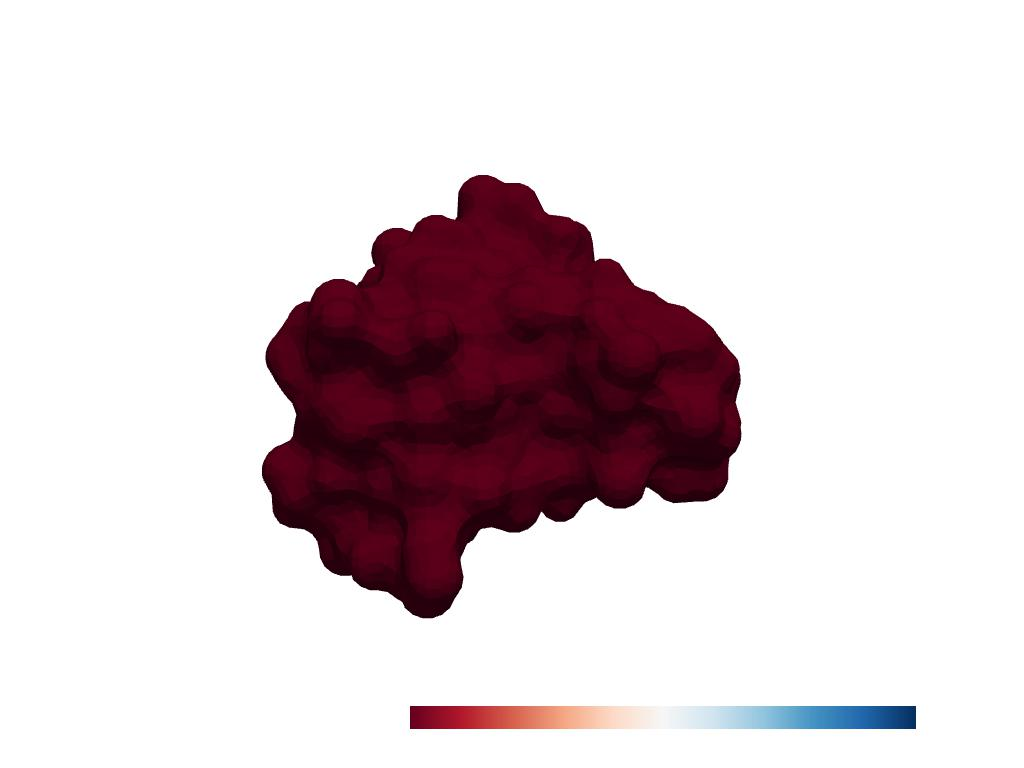
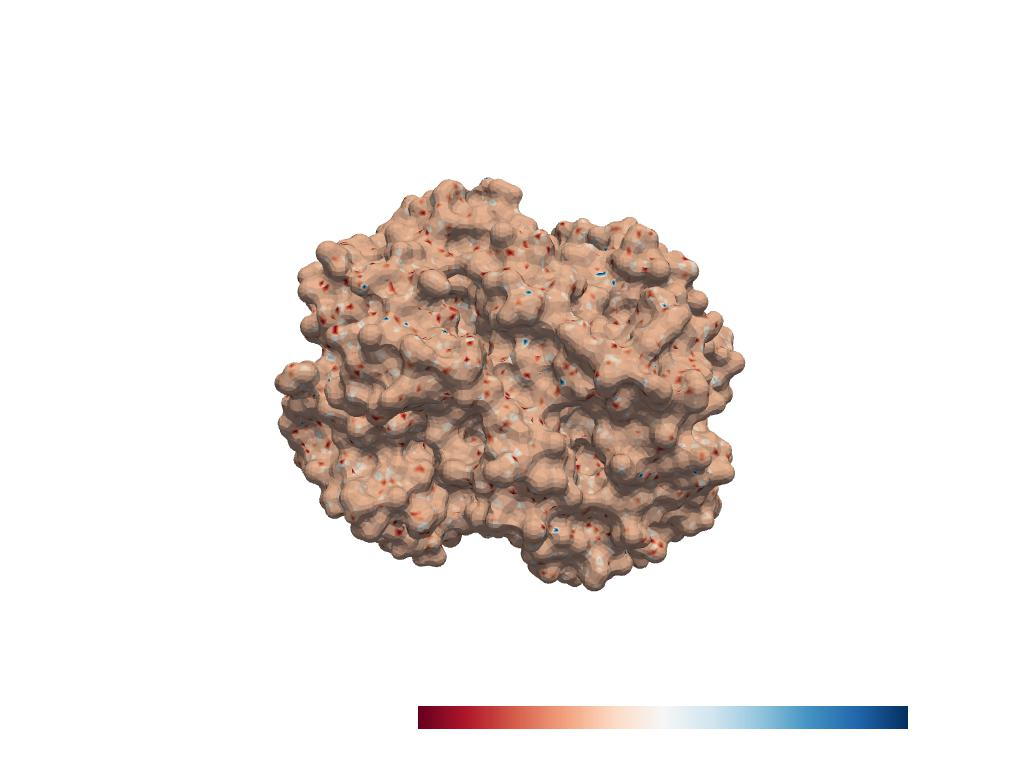
Trying native mesh stuff

Changed region(s): [[0.25, 0.2188, 0.75, 0.8125], [0.875, 0.9062, 0.9062, 0.9688], [0.375, 0.9062, 0.4062, 0.9375]]

diff --git a/provis/src/surface_handler.py b/provis/src/surface_handler.py
@@ -10,7 +10,7 @@ import pyvista as pv
 from pyvtk import PolyData, PointData, CellData, Scalars, Vectors, VtkData
 from provis.utils.surface_utils import get_surface, compute_normal, prepare_trimesh
 from provis.src.surface_feat import compute_surface_features
-import trimesh
+from trimesh import util
 from subprocess import PIPE, Popen
 import open3d as o3d
 
@@ -38,71 +38,6 @@ class SurfaceHandler:
             self._density = dens
         self._features = None
         self._mesh = None
-
-
-    def save_vtk(self, fname, xyz, triangles=None, values=None, vectors=None,
-                triangle_values=None):
-        """
-        Saves a point cloud or triangle mesh as a .vtk file.
-
-        Files can be opened with Paraview or displayed using the PyVista library.
-        Args:
-            fname (string): filename.
-            xyz (Tensor): (N,3) point cloud or vertices.
-            triangles (integer Tensor, optional): (T,3) mesh connectivity.
-            values (Tensor, optional): (N,D) values, supported by the vertices.
-            vectors (Tensor, optional): (N,3) vectors, supported by the vertices.
-            triangle_values (Tensor, optional): (T,D) values, supported by triangles.
-        """
-
-        # encode the points/vertices as a VTK structure:
-        if triangles is None:
-            # point cloud
-            structure = PolyData(points=xyz)
-        else:
-            # surface mesh
-            structure = PolyData(points=xyz, polygons=triangles)
-
-        data = [structure]
-        pointdata, celldata = [], []
-
-        # point values - one channel per column of the `values` array
-        if values is not None:
-            values = values
-            if len(values.shape) == 1:
-                values = values[:, None]
-            features = values.T
-            pointdata += [
-                Scalars(f,
-                        name=f"features_{i:02d}") for i, f in enumerate(features)
-            ]
-
-        # point vectors - one vector per point
-        if vectors is not None:
-            pointdata += [Vectors(vectors, name="vectors")]
-
-        # store in the VTK object:
-        if pointdata != []:
-            pointdata = PointData(*pointdata)
-            data.append(pointdata)
-
-        # triangle values - one channel per column of the `triangle_values` array
-        if triangle_values is not None:
-            triangle_values = triangle_values
-            if len(triangle_values.shape) == 1:
-                triangle_values = triangle_values[:, None]
-            features = triangle_values.T
-            celldata += [
-                Scalars(f,
-                        name=f"features_{i:02d}") for i, f in enumerate(features)
-            ]
-
-            celldata = CellData(*celldata)
-            data.append(celldata)
-
-        #  write to hard drive
-        vtk = VtkData(*data)
-        vtk.tofile(fname)
         
     def get_assignments(self):
         # set data path
@@ -142,16 +77,13 @@ class SurfaceHandler:
         else:
             raise NotImplementedError
 
-    def return_mesh_and_color(self, feature="", patch=0, save=0):
+    def return_mesh_and_color(self, feature="", patch=0):
         
         if not self._mesh:
             surface = get_surface(out_path=self._out_path, density=self._density)
             self._mesh = prepare_trimesh(vertices=surface[0], faces=surface[1], normals=surface[2], 
                             resolution=1.5, apply_fixes=True)
         
-        if save:
-            vtk = self._out_path + '.vtk'
-            self.save_vtk(vtk, self._mesh.vertices, self._mesh.faces.astype(int))
     
         if patch:
             cas = self.get_assignments()
@@ -223,6 +155,34 @@ class SurfaceHandler:
         for mesh in self._atmsurf[1:]:
             mesh_ = mesh_ + (mesh)
 
+
+        # shell = mesh_
+        # # shell = trimesh.smoothing.filter_taubin(mesh_)
+        # pcd = mesh_.sample_points_poisson_disk(750)
+        # o3d.visualization.draw_geometries([pcd])
+        # alpha = 0.03
+        # print(f"alpha={alpha:.3f}")
+        # mesh = o3d.geometry.TriangleMesh.create_from_point_cloud_alpha_shape(pcd, alpha)
+        # mesh.compute_vertex_normals()
+        # o3d.visualization.draw_geometries([mesh], mesh_show_back_face=True)
+       
+        # self._atmsurf, col = self._dh.get_atom_trimesh(atom_data, vw=1, probe=0.1)
+        # mesh_ = util.concatenate(self._atmsurf)
+        # cloud = o3d.geometry.PointCloud()
+        # poly_pc = mesh_.vertices[mesh_.edges_unique]
+        # # poly_pc = pc.extract_all_edges()
+        # cloud.points = o3d.utility.Vector3dVector(mesh_.vertices)
+        # cloud.normals = o3d.utility.Vector3dVector(mesh_.vertex_normals)
+        # radii = [ 0.2]
+        # trimesh= o3d.geometry.TriangleMesh.create_from_point_cloud_ball_pivoting(cloud, o3d.utility.DoubleVector(radii))#, depth=depth, width=width, scale=scale, linear_fit=linear_fit)
+        # v = np.asarray(trimesh.vertices)
+        # f = np.array(trimesh.triangles)
+        # f = np.c_[np.full(len(f), 3), f]
+        # mesh = pv.PolyData(v, f)
+        # shell =  mesh.clean()#.reconstruct_surface()
+
+        # shell = self.poisson_mesh(mesh_) 
+
         
         # my_tubes = dict()
         # for i in range(len(self._atmsurf)):
@@ -231,15 +191,17 @@ class SurfaceHandler:
         # blocks = pv.MultiBlock(my_tubes)
         # merged = blocks.combine()
         # merged # this is now a single unstructured grid containing all geometry
+        # shell = merged#mesh_.extract_surface().extract_all_edges()
 
         # prepare_trimesh()
             
         # create one mesh out of many spheres
-        vol = mesh_.delaunay_3d(alpha=1.4)
+        vol = mesh_.delaunay_3d(alpha=1.5)
         # extract surface from new mesh
         # # shell = self.poisson_mesh(vol)
-        shell = vol.extract_surface().reconstruct_surface(sample_spacing=1.2)
+        shell = vol.extract_feature_edges().reconstruct_surface()
+        # shell = shell.reconstruct_surface(sample_spacing=1.3)
+        # shell = vol.extract_surface().reconstruct_surface(sample_spacing=1.2)
         # shell = shell.extract_all_edges().delaunay_3d(alpha=1.4)
 
-        # shell = merged#mesh_.extract_surface().extract_all_edges()
         return shell

diff --git a/provis/src/data_handler.py b/provis/src/data_handler.py
@@ -222,6 +222,59 @@ class DataHandler:
         # return list of spheres and colors representing each atom
         return atoms_spheres, colors_spheres
 
+    def get_atom_trimesh(self, atom_data, vw=0, probe=0, phi_res=10, theta_res = 10):
+        """
+        Create a list of Shperes and colors representing each atom for plotting. Can later be added to a mesh for plotting.
+        
+        :param name: atom_data - Dictionary of atoms and their coordinates, by atom type
+        :param type: dict
+        :param name: vw, optional - When set to True Van-der-Waals atomic radii used instead of empirical radii; default false
+        :param type: bool
+        :param name: probe - size of probe (representing the solvent size) needed for surface calculation
+        :param type: int
+        :param name: phi_res - pyvista phi_resolution for Sphere objects representing atoms
+        :param type: int
+        :param name: theta_res - pyvista theta_resolution for Sphere objects representing atoms
+        :param type: int
+        
+        :return: list - List of pyvista Shperes representing each atom
+        :return: list - List of colors for each atom
+        """
+        # these two dictionaries have to be manually created
+        # also, if more/other atoms present in protein it will not work
+
+        # create glyphs (spherical) to represent each atom
+        atoms_spheres = []
+        colors_spheres = []
+        rad = probe / 2.0
+
+        import trimesh
+        for atoms_type in atom_data:
+
+            # create a mesh with each atoms position
+            # mesh = trimesh.points.PointCloud()#np.array(atom_data[atoms_type]))
+            # print(mesh)
+            # place a specific sphere at given position
+
+            spheres = []
+            for atom in atom_data[atoms_type]:
+                if not vw:
+                    spheres.append(trimesh.primitives.Sphere(radius=self._atoms_size_dict[atoms_type], center=atom))
+                else:
+                    spheres.append(trimesh.primitives.Sphere(radius=(self._vw_dict[atoms_type] + rad), center=atom))
+
+            mesh = trimesh.util.concatenate(spheres)
+            atoms_spheres.append(mesh)
+
+            try:
+                # color the sphere according to 'CPK' standard
+                colors_spheres.append(self._atoms_color_dict[atoms_type])
+            except KeyError:
+                # if atom is unrecognized, color it pink
+                colors_spheres.append('#DD77FF')
+
+        # return list of spheres and colors representing each atom
+        return atoms_spheres, colors_spheres
 
     def get_residue_mesh(self, res_data, phi_res = 25, theta_res = 25):
         """

diff --git a/provis/src/file_converter.py b/provis/src/file_converter.py
@@ -51,8 +51,9 @@ class FileConverter():
         # create filepath+filename.xyzrn for output file
         xyzrn = output + ".xyzrn"
         name = path + ".pdb"
-        
-        output_pdb_as_xyzrn(name, xyzrn)
+
+        if not os.path.exists(xyzrn):
+            output_pdb_as_xyzrn(name, xyzrn)
         
     @staticmethod
     def msms(path, dens):
@@ -79,7 +80,8 @@ class FileConverter():
         FNULL = open(os.devnull, 'w')
         args = [MSMS_BIN, "-density", f"{dens}", "-hdensity", "3.0", "-probe",\
                         "1.5", "-if", f"{path}.xyzrn", "-of", file_base, "-af", file_base]
-        if os.path.isfile(MSMS_BIN):
+        output_exists = os.path.exists(file_base + ".vert") and os.path.exists(file_base + ".face") + os.path.exists(file_base + ".area")
+        if os.path.isfile(MSMS_BIN) and not output_exists:
             ac = subprocess.call(args) 
         else:
             print("MSMS Binary not found under: ", MSMS_BIN)
@@ -95,7 +97,8 @@ class FileConverter():
         :param type: str
         """
         print("Converting mol2 file...")
-        ac = subprocess.call("obabel %4s.pdb -O %4s.mol2" % (path,  outpath), shell=True)
+        if not os.path.exists(outpath + ".mol2"):
+            ac = subprocess.call("obabel %s.pdb -O %s.mol2" % (path,  outpath), shell=True)
 
     @staticmethod
     def pdb_to_pqr(path, outpath):
@@ -110,12 +113,21 @@ class FileConverter():
         print("Converting pqr file...")
 
         PDB2PQR_BIN  = os.environ['PDB2PQR_BIN']
+        print(PDB2PQR_BIN)
+        print(os.path.isfile(PDB2PQR_BIN))
+        binary_found = os.path.isfile(PDB2PQR_BIN)
+        print(binary_found)
+        #possibilities: amber, charmm, parse, tyl06, peoepb and swanson
+        args = [PDB2PQR_BIN , "--ff=swanson", f"{path}.pdb", f"{outpath}_out.pqr"]
 
-        args = [PDB2PQR_BIN , "--clean", f"{path}.pdb", f"{outpath}_out.pqr"]
+        
+        if binary_found:
+            if os.path.exists(f"{outpath}_out.pqr"):
 
-        if os.path.isfile(PDB2PQR_BIN ):
-            ac = subprocess.call(args)
-        else:
+                print("File already present, no conversion needed.")
+            else:
+                ac = subprocess.call(args)
+        elif not binary_found:
             print("MSMS Binary not found under: ", PDB2PQR_BIN )
 
     @staticmethod

diff --git a/provis/src/surface_feat.py b/provis/src/surface_feat.py
@@ -3,7 +3,7 @@ https://github.com/bunnech/holoprot/blob/main/holoprot/feat/surface.py is the ba
 
 Functions to compute features for a patch on the protein surface.
 
-Some of these are borrowed from https://github.com/LPDI-EPFL/masif
+Some of these are borrowed from https://github.com/LPDI-EPFL/masif under the https://github.com/LPDI-EPFL/masif/blob/master/LICENSE license
 """
 import numpy as np
 from Bio.PDB import Selection
@@ -215,7 +215,6 @@ def compute_charges(vertices: np.ndarray, pdb_file: str, pdb_id: str, out_path: 
         raise ValueError(f"Charges cannot be computed. Missing file {pdb_id}_out.pqr. {pdb_id}")
 
     chargefile = open(charge_file)
-    print(charge_file)
     charges = np.array([0.0] * len(vertices))
     for ix, line in enumerate(chargefile.readlines()):
         try:
@@ -239,7 +238,7 @@ def compute_surface_features(surface: Surface,
     ----------
     surface: Surface,
         Tuple of attributes characterizing the surface. These include vertices,
-        faces, normals to each vertex, areas, residue identifiers for vertices.
+        faces, normals to each vertex, areas, fdue identifiers for vertices.
     pdb_file: str,
         PDB File containing the atomic coordinates
     fix_mesh: bool (default False),

diff --git a/main.py b/main.py
@@ -7,7 +7,7 @@ from provis.src.surface import Surface
 from provis.src.residue import Residue
                                     
 def main():
-    name =  "data/pdb/2fd7" # "data/pdb/1a3n" # "data/pdb/7nkd" #
+    name = "data/pdb/1a3n" # "data/pdb/2fd7" # "data/pdb/7nkd" #
     density = 3.0
     solvent = 0
     bash = 0
@@ -34,7 +34,7 @@ def main():
     # s.plot_msms_surface()
     s.plot_surface()
 
-    fc.cleanup(delete_img=1)
+    # fc.cleanup(delete_img=1)
 
 if __name__ == "__main__":
     main()
